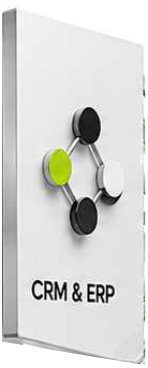
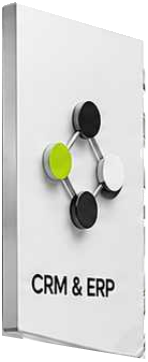
Cut the white corner above each service card
The card outlines run a little above the real slabs, so a white wedge of the
render's backdrop stayed above each card's top-left corner, inside the lime
glow. The cutout now treats the backdrop above each card's face and above its
chrome side strip as background too (parts-layers.py --cutout), and the card
boxes in PartsAsOne.vue follow the trimmed layers.

diff --git a/frontend/app/components/home/PartsAsOne.vue b/frontend/app/components/home/PartsAsOne.vue
@@ -24,12 +24,12 @@ const ART_H = 620;
 const TUBES: Rect = [3, 22, 1127, 588];
 const ONE: Rect = [941, 117, 850, 491];
 const CARDS: Array<{ key: CardKey; rect: Rect }> = [
-  { key: "naming", rect: [28, 25, 195, 416] },
+  { key: "naming", rect: [28, 31, 195, 410] },
   { key: "branding", rect: [179, 48, 177, 400] },
-  { key: "design", rect: [311, 57, 171, 395] },
-  { key: "photography", rect: [441, 68, 166, 383] },
-  { key: "websites", rect: [574, 77, 162, 374] },
-  { key: "crm", rect: [708, 84, 148, 368] },
+  { key: "design", rect: [311, 60, 171, 392] },
+  { key: "photography", rect: [441, 72, 166, 379] },
+  { key: "websites", rect: [574, 78, 162, 373] },
+  { key: "crm", rect: [708, 90, 148, 362] },
 ];
 const LAST = CARDS.length - 1;
 

diff --git a/frontend/scripts/parts-layers.py b/frontend/scripts/parts-layers.py
@@ -40,6 +40,17 @@ CARDS = {
     "websites": [(576, 71), (733, 115), (733, 449), (576, 425)],
     "crm": [(710, 80), (853, 117), (853, 449), (710, 425.5)],
 }
+# The top edge of each card's white face (left and right end): the backdrop above
+# it, inside the card outline (the outline's top runs a little above the real
+# slab), is cut away too.
+FACE_TOPS = {
+    "naming": [(62.4, 37.0), (196.4, 83.9)],
+    "branding": [(199.9, 51.0), (331.9, 102.1)],
+    "design": [(331.1, 56.4), (463.7, 100.1)],
+    "photography": [(462.0, 66.2), (592.2, 106.0)],
+    "websites": [(592.9, 76.1), (720.7, 111.9)],
+    "crm": [(726.6, 94.3), (848.6, 130.4)],
+}
 EXTEND = 96  # the render is cropped through its floor shadow; continue it down
 SUPERSAMPLE = 4
 
@@ -49,7 +60,7 @@ def smoothstep(e0, e1, x):
     return t * t * (3 - 2 * t)
 
 
-def cutout(rgb, cards):
+def cutout(rgb, cards, above_faces):
     """Alpha of the objects (cards, tubes, letters) against the white backdrop and
     floor, and their colour with the backdrop taken out (rgb = a*colour + (1-a)*backdrop).
 
@@ -64,13 +75,15 @@ def cutout(rgb, cards):
     sat = rgb.max(2) - rgb.min(2)
     smooth = gaussian_filter(lum, 1.0)
     grad = np.hypot(ndi.sobel(smooth, 1), ndi.sobel(smooth, 0)) / 8
-    card_core = binary_erosion(cards > 0.5, iterations=5)
+    card_core = binary_erosion(cards > 0.5, iterations=5) & ~above_faces
 
     # Pure white grows into light, neutral, smooth pixels: the backdrop and the floor.
     bglike = (sat <= 9) & (((lum >= 232) & (grad <= 5.0)) | ((lum >= 160) & (grad <= 2.2)))
     labels, _ = ndi.label(bglike)
     ids = np.unique(labels[(rgb.min(2) >= 250) & bglike])
-    bg = np.isin(labels, ids[ids > 0]) & ~(cards > 0.02)
+    bg = np.isin(labels, ids[ids > 0]) & (~(cards > 0.02) | above_faces)
+    # Above a face, any light pixel (the antialiased tip of the outline) is backdrop.
+    bg |= above_faces & (lum > 215) & (sat < 14)
 
     # The backdrop behind the objects: normalised convolution, wider where needed.
     backdrop = rgb.copy()
@@ -135,7 +148,29 @@ def main(src, out, cut=False):
         covered = np.maximum(covered, mask)
     matte = np.ones((h, w), np.float32)
     if cut:
-        matte, rgb = cutout(rgb, covered)
+        ys, xs = np.mgrid[0:h, 0:w]
+        above = np.zeros((h, w), bool)
+        keys = list(FACE_TOPS)
+        for index, key in enumerate(keys):
+            (x0, y0), (x1, y1) = FACE_TOPS[key]
+            line = y0 + (xs - x0) * (y1 - y0) / (x1 - x0)
+            # Only where this card shows: the next ones are in front of it.
+            front = np.zeros((h, w), bool)
+            for later in keys[index + 1:]:
+                front |= cards[later] > 0.02
+            mine = (cards[key] > 0.02) & ~front
+            above |= mine & (ys < line - 1)
+            # Left of the face is the slab's chrome side strip: above its top
+            # (its first darker pixel in each column) is backdrop as well.
+            lum = rgb @ np.array([0.299, 0.587, 0.114], np.float32)
+            for x in range(max(0, int(min(px for px, _ in CARDS[key])) - 1), int(x0) - 1):
+                column = np.where(mine[:, x])[0]
+                if not len(column):
+                    continue
+                dark = column[lum[column, x] < 210]
+                if len(dark):
+                    above[column[0]:dark[0], x] |= mine[column[0]:dark[0], x]
+        matte, rgb = cutout(rgb, covered, above)
     # Tubes and floor: everything else, running 28px on under the ONE (it slides
     # in together with it). Under each card's edge the tubes stay opaque for
     # 3px, filled with the nearest pixel outside the cards, so a card edge
